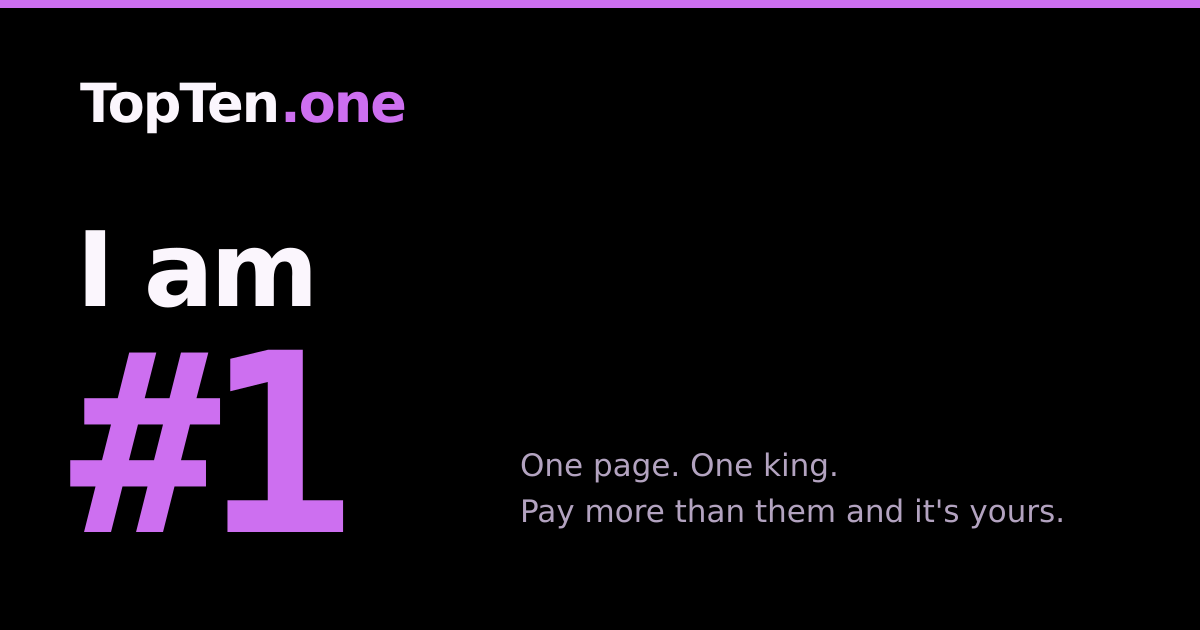
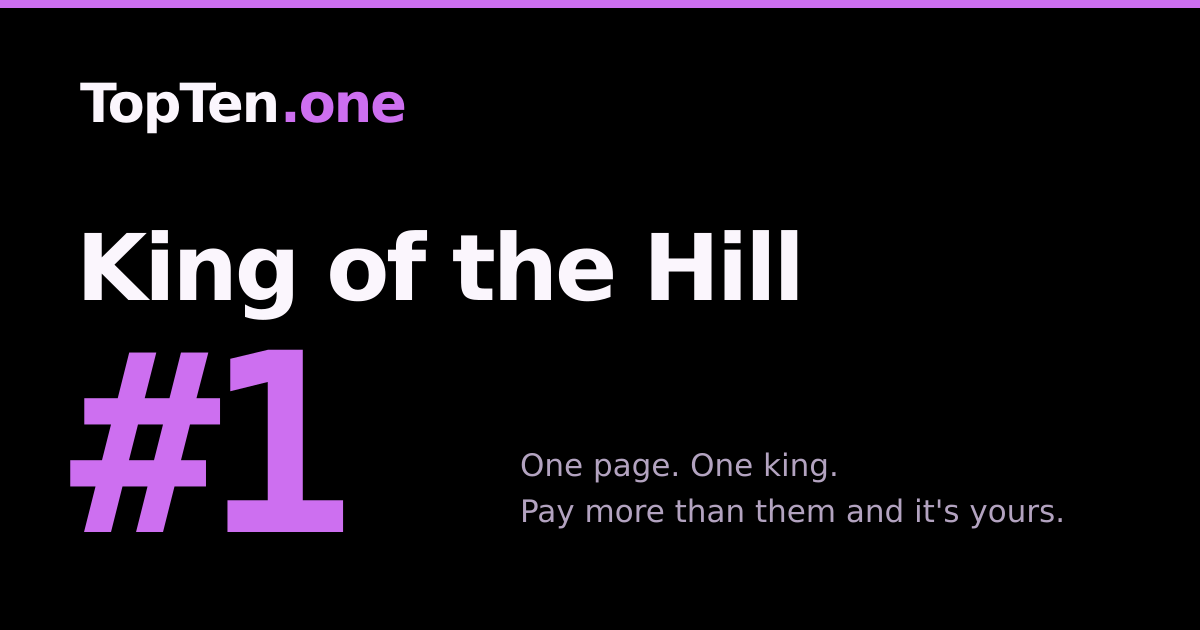
The game has a name: King of the Hill
The domain is the mark; this is the name of the game played on it. It
goes in four places and one place it deliberately does not.

Masthead, beside the wordmark rather than under it, so every page carries
both in one row: topten.one · KING OF THE HILL. Hidden under 360px,
where the row would wrap.

<title>, on all four pages. "Current king: {name} — {amount} — King of
the Hill" once somebody is on the throne, "King of the Hill — topten.one"
while nobody is.

og:site_name, and the share card, where it is said largest. The card had
carried "I am" since the site had a slogan, which outlived the site it
belonged to by one commit.

Not og:title. That slot keeps "Current king: {name} — {amount}" — the one
sentence about this site that changes every time somebody pays — and
spending the front of a preview card on a constant would waste it.

Claude-Session: https://claude.ai/code/session_01468mSVxnefUF94dk4UhLmM

Changed region(s): [[0.0617, 0.3619, 0.6783, 0.5127]]

diff --git a/404.html b/404.html
@@ -4,7 +4,7 @@
 <meta charset="UTF-8">
 <meta name="viewport" content="width=device-width, initial-scale=1, viewport-fit=cover">
 <!-- csp --><meta http-equiv="Content-Security-Policy" content="default-src 'self'; base-uri 'self'; object-src 'none'; frame-src 'none'; form-action 'self'; script-src 'self' https://cdn.jsdelivr.net https://www.googletagmanager.com 'sha256-Ll370Ro9CDDpAN6NVgxuPPrid6b6EQAShYme9C0sL4c='; style-src 'self' 'unsafe-inline'; img-src 'self' data:; font-src 'self'; connect-src 'self' https://iezclmijwrtjibgflfqj.supabase.co wss://iezclmijwrtjibgflfqj.supabase.co https://*.google-analytics.com https://*.analytics.google.com https://www.googletagmanager.com; manifest-src 'self'">
-<title>TopTen.one — one page, one king</title>
+<title>King of the Hill — topten.one</title>
 <meta name="description" content="One page. One king. Whoever has paid the most holds it, and whoever pays more takes it. No accounts, no algorithm, no refunds.">
 <link rel="canonical" href="https://topten.one/">
 
@@ -40,26 +40,27 @@ if (window.top !== window.self) {
 
 <!-- og -->
 <meta property="og:type" content="website">
-<meta property="og:site_name" content="TopTen.one">
-<meta property="og:title" content="TopTen.one — one page, one king">
+<meta property="og:site_name" content="King of the Hill">
+<meta property="og:title" content="King of the Hill — one page, one king">
 <meta property="og:description" content="One page. One king. Pay more than them and it&#39;s yours.">
 <meta property="og:image" content="https://topten.one/og-image.png?v=3">
 <meta property="og:image:width" content="1200">
 <meta property="og:image:height" content="630">
 <meta property="og:url" content="https://topten.one/">
 <meta name="twitter:card" content="summary_large_image">
-<meta name="twitter:title" content="TopTen.one — one page, one king">
+<meta name="twitter:title" content="King of the Hill — one page, one king">
 <meta name="twitter:description" content="One page. One king. Pay more than them and it&#39;s yours.">
 <meta name="twitter:image" content="https://topten.one/og-image.png?v=3">
 <!-- /og -->
 
-<link rel="stylesheet" href="/styles.css?v=40422df2a3">
+<link rel="stylesheet" href="/styles.css?v=0665cf081d">
 </head>
 <body>
 
 <header class="masthead">
   <div class="shell masthead__row">
     <a class="wordmark" href="/">topten<b>.one</b></a>
+    <span class="masthead__name">King of the Hill</span>
   </div>
 </header>
 
@@ -119,8 +120,8 @@ if (window.top !== window.self) {
   </div>
 </footer>
 
-<script src="/config.js?v=40422df2a3"></script>
+<script src="/config.js?v=0665cf081d"></script>
 <script defer src="https://cdn.jsdelivr.net/npm/@supabase/supabase-js@2.58.0/dist/umd/supabase.min.js"></script>
-<script defer src="/app.js?v=40422df2a3"></script>
+<script defer src="/app.js?v=0665cf081d"></script>
 </body>
 </html>

diff --git a/claim/index.html b/claim/index.html
@@ -4,7 +4,7 @@
 <meta charset="UTF-8">
 <meta name="viewport" content="width=device-width, initial-scale=1, viewport-fit=cover">
 <!-- csp --><meta http-equiv="Content-Security-Policy" content="default-src 'self'; base-uri 'self'; object-src 'none'; frame-src 'none'; form-action 'self'; script-src 'self' https://cdn.jsdelivr.net https://www.googletagmanager.com 'sha256-Ll370Ro9CDDpAN6NVgxuPPrid6b6EQAShYme9C0sL4c='; style-src 'self' 'unsafe-inline'; img-src 'self' data:; font-src 'self'; connect-src 'self' https://iezclmijwrtjibgflfqj.supabase.co wss://iezclmijwrtjibgflfqj.supabase.co https://*.google-analytics.com https://*.analytics.google.com https://www.googletagmanager.com; manifest-src 'self'">
-<title>TopTen.one — one page, one king</title>
+<title>King of the Hill — topten.one</title>
 <meta name="description" content="One page. One king. Whoever has paid the most holds it, and whoever pays more takes it. No accounts, no algorithm, no refunds.">
 <link rel="canonical" href="https://topten.one/">
 
@@ -40,26 +40,27 @@ if (window.top !== window.self) {
 
 <!-- og -->
 <meta property="og:type" content="website">
-<meta property="og:site_name" content="TopTen.one">
-<meta property="og:title" content="TopTen.one — one page, one king">
+<meta property="og:site_name" content="King of the Hill">
+<meta property="og:title" content="King of the Hill — one page, one king">
 <meta property="og:description" content="One page. One king. Pay more than them and it&#39;s yours.">
 <meta property="og:image" content="https://topten.one/og-image.png?v=3">
 <meta property="og:image:width" content="1200">
 <meta property="og:image:height" content="630">
 <meta property="og:url" content="https://topten.one/">
 <meta name="twitter:card" content="summary_large_image">
-<meta name="twitter:title" content="TopTen.one — one page, one king">
+<meta name="twitter:title" content="King of the Hill — one page, one king">
 <meta name="twitter:description" content="One page. One king. Pay more than them and it&#39;s yours.">
 <meta name="twitter:image" content="https://topten.one/og-image.png?v=3">
 <!-- /og -->
 
-<link rel="stylesheet" href="/styles.css?v=40422df2a3">
+<link rel="stylesheet" href="/styles.css?v=0665cf081d">
 </head>
 <body>
 
 <header class="masthead">
   <div class="shell masthead__row">
     <a class="wordmark" href="/">topten<b>.one</b></a>
+    <span class="masthead__name">King of the Hill</span>
   </div>
 </header>
 
@@ -119,8 +120,8 @@ if (window.top !== window.self) {
   </div>
 </footer>
 
-<script src="/config.js?v=40422df2a3"></script>
+<script src="/config.js?v=0665cf081d"></script>
 <script defer src="https://cdn.jsdelivr.net/npm/@supabase/supabase-js@2.58.0/dist/umd/supabase.min.js"></script>
-<script defer src="/app.js?v=40422df2a3"></script>
+<script defer src="/app.js?v=0665cf081d"></script>
 </body>
 </html>

diff --git a/index.html b/index.html
@@ -4,7 +4,7 @@
 <meta charset="UTF-8">
 <meta name="viewport" content="width=device-width, initial-scale=1, viewport-fit=cover">
 <!-- csp --><meta http-equiv="Content-Security-Policy" content="default-src 'self'; base-uri 'self'; object-src 'none'; frame-src 'none'; form-action 'self'; script-src 'self' https://cdn.jsdelivr.net https://www.googletagmanager.com 'sha256-Ll370Ro9CDDpAN6NVgxuPPrid6b6EQAShYme9C0sL4c='; style-src 'self' 'unsafe-inline'; img-src 'self' data:; font-src 'self'; connect-src 'self' https://iezclmijwrtjibgflfqj.supabase.co wss://iezclmijwrtjibgflfqj.supabase.co https://*.google-analytics.com https://*.analytics.google.com https://www.googletagmanager.com; manifest-src 'self'">
-<title>TopTen.one — one page, one king</title>
+<title>King of the Hill — topten.one</title>
 <meta name="description" content="One page. One king. Whoever has paid the most holds it, and whoever pays more takes it. No accounts, no algorithm, no refunds.">
 <link rel="canonical" href="https://topten.one/">
 
@@ -40,26 +40,27 @@ if (window.top !== window.self) {
 
 <!-- og -->
 <meta property="og:type" content="website">
-<meta property="og:site_name" content="TopTen.one">
-<meta property="og:title" content="TopTen.one — one page, one king">
+<meta property="og:site_name" content="King of the Hill">
+<meta property="og:title" content="King of the Hill — one page, one king">
 <meta property="og:description" content="One page. One king. Pay more than them and it&#39;s yours.">
 <meta property="og:image" content="https://topten.one/og-image.png?v=3">
 <meta property="og:image:width" content="1200">
 <meta property="og:image:height" content="630">
 <meta property="og:url" content="https://topten.one/">
 <meta name="twitter:card" content="summary_large_image">
-<meta name="twitter:title" content="TopTen.one — one page, one king">
+<meta name="twitter:title" content="King of the Hill — one page, one king">
 <meta name="twitter:description" content="One page. One king. Pay more than them and it&#39;s yours.">
 <meta name="twitter:image" content="https://topten.one/og-image.png?v=3">
 <!-- /og -->
 
-<link rel="stylesheet" href="/styles.css?v=40422df2a3">
+<link rel="stylesheet" href="/styles.css?v=0665cf081d">
 </head>
 <body>
 
 <header class="masthead">
   <div class="shell masthead__row">
     <a class="wordmark" href="/">topten<b>.one</b></a>
+    <span class="masthead__name">King of the Hill</span>
   </div>
 </header>
 
@@ -119,8 +120,8 @@ if (window.top !== window.self) {
   </div>
 </footer>
 
-<script src="/config.js?v=40422df2a3"></script>
+<script src="/config.js?v=0665cf081d"></script>
 <script defer src="https://cdn.jsdelivr.net/npm/@supabase/supabase-js@2.58.0/dist/umd/supabase.min.js"></script>
-<script defer src="/app.js?v=40422df2a3"></script>
+<script defer src="/app.js?v=0665cf081d"></script>
 </body>
 </html>

diff --git a/thanks/index.html b/thanks/index.html
@@ -4,7 +4,7 @@
 <meta charset="UTF-8">
 <meta name="viewport" content="width=device-width, initial-scale=1, viewport-fit=cover">
 <!-- csp --><meta http-equiv="Content-Security-Policy" content="default-src 'self'; base-uri 'self'; object-src 'none'; frame-src 'none'; form-action 'self'; script-src 'self' https://cdn.jsdelivr.net https://www.googletagmanager.com 'sha256-Ll370Ro9CDDpAN6NVgxuPPrid6b6EQAShYme9C0sL4c='; style-src 'self' 'unsafe-inline'; img-src 'self' data:; font-src 'self'; connect-src 'self' https://iezclmijwrtjibgflfqj.supabase.co wss://iezclmijwrtjibgflfqj.supabase.co https://*.google-analytics.com https://*.analytics.google.com https://www.googletagmanager.com; manifest-src 'self'">
-<title>TopTen.one — one page, one king</title>
+<title>King of the Hill — topten.one</title>
 <meta name="description" content="One page. One king. Whoever has paid the most holds it, and whoever pays more takes it. No accounts, no algorithm, no refunds.">
 <link rel="canonical" href="https://topten.one/">
 
@@ -40,26 +40,27 @@ if (window.top !== window.self) {
 
 <!-- og -->
 <meta property="og:type" content="website">
-<meta property="og:site_name" content="TopTen.one">
-<meta property="og:title" content="TopTen.one — one page, one king">
+<meta property="og:site_name" content="King of the Hill">
+<meta property="og:title" content="King of the Hill — one page, one king">
 <meta property="og:description" content="One page. One king. Pay more than them and it&#39;s yours.">
 <meta property="og:image" content="https://topten.one/og-image.png?v=3">
 <meta property="og:image:width" content="1200">
 <meta property="og:image:height" content="630">
 <meta property="og:url" content="https://topten.one/">
 <meta name="twitter:card" content="summary_large_image">
-<meta name="twitter:title" content="TopTen.one — one page, one king">
+<meta name="twitter:title" content="King of the Hill — one page, one king">
 <meta name="twitter:description" content="One page. One king. Pay more than them and it&#39;s yours.">
 <meta name="twitter:image" content="https://topten.one/og-image.png?v=3">
 <!-- /og -->
 
-<link rel="stylesheet" href="/styles.css?v=40422df2a3">
+<link rel="stylesheet" href="/styles.css?v=0665cf081d">
 </head>
 <body>
 
 <header class="masthead">
   <div class="shell masthead__row">
     <a class="wordmark" href="/">topten<b>.one</b></a>
+    <span class="masthead__name">King of the Hill</span>
   </div>
 </header>
 
@@ -119,8 +120,8 @@ if (window.top !== window.self) {
   </div>
 </footer>
 
-<script src="/config.js?v=40422df2a3"></script>
+<script src="/config.js?v=0665cf081d"></script>
 <script defer src="https://cdn.jsdelivr.net/npm/@supabase/supabase-js@2.58.0/dist/umd/supabase.min.js"></script>
-<script defer src="/app.js?v=40422df2a3"></script>
+<script defer src="/app.js?v=0665cf081d"></script>
 </body>
 </html>

diff --git a/about.html b/about.html
@@ -4,25 +4,26 @@
 <meta charset="UTF-8">
 <meta name="viewport" content="width=device-width, initial-scale=1, viewport-fit=cover">
 <!-- csp --><meta http-equiv="Content-Security-Policy" content="default-src 'self'; base-uri 'self'; object-src 'none'; frame-src 'none'; form-action 'self'; script-src 'self' https://cdn.jsdelivr.net https://www.googletagmanager.com; style-src 'self' 'unsafe-inline'; img-src 'self' data:; font-src 'self'; connect-src 'self' https://iezclmijwrtjibgflfqj.supabase.co wss://iezclmijwrtjibgflfqj.supabase.co https://*.google-analytics.com https://*.analytics.google.com https://www.googletagmanager.com; manifest-src 'self'">
-<title>About — TopTen.one</title>
+<title>About — King of the Hill</title>
 <meta name="description" content="One page, one king. Whoever has paid the most holds it, and whoever pays more takes it.">
 <link rel="canonical" href="https://topten.one/about.html">
 <meta name="theme-color" content="#2b1f39">
 <link rel="icon" href="/icons/favicon.svg" type="image/svg+xml">
 <link rel="icon" href="/icons/favicon-32.png" sizes="32x32" type="image/png">
 <meta property="og:type" content="article">
-<meta property="og:title" content="About — TopTen.one">
+<meta property="og:title" content="About — King of the Hill">
 <meta property="og:description" content="One page, one king. Whoever has paid the most holds it, and whoever pays more takes it.">
 <meta property="og:image" content="https://topten.one/og-image.png?v=3">
 <meta property="og:url" content="https://topten.one/about.html">
 <meta name="twitter:card" content="summary_large_image">
-<link rel="stylesheet" href="/styles.css?v=40422df2a3">
+<link rel="stylesheet" href="/styles.css?v=0665cf081d">
 </head>
 <body>
 
 <header class="masthead">
   <div class="shell masthead__row">
     <a class="wordmark" href="/">topten<b>.one</b></a>
+    <span class="masthead__name">King of the Hill</span>
   </div>
 </header>
 

diff --git a/privacy.html b/privacy.html
@@ -4,25 +4,26 @@
 <meta charset="UTF-8">
 <meta name="viewport" content="width=device-width, initial-scale=1, viewport-fit=cover">
 <!-- csp --><meta http-equiv="Content-Security-Policy" content="default-src 'self'; base-uri 'self'; object-src 'none'; frame-src 'none'; form-action 'self'; script-src 'self' https://cdn.jsdelivr.net https://www.googletagmanager.com; style-src 'self' 'unsafe-inline'; img-src 'self' data:; font-src 'self'; connect-src 'self' https://iezclmijwrtjibgflfqj.supabase.co wss://iezclmijwrtjibgflfqj.supabase.co https://*.google-analytics.com https://*.analytics.google.com https://www.googletagmanager.com; manifest-src 'self'">
-<title>Privacy — TopTen.one</title>
+<title>Privacy — King of the Hill</title>
 <meta name="description" content="No accounts, no logins, and as little data as one paid position can run on.">
 <link rel="canonical" href="https://topten.one/privacy.html">
 <meta name="theme-color" content="#2b1f39">
 <link rel="icon" href="/icons/favicon.svg" type="image/svg+xml">
 <link rel="icon" href="/icons/favicon-32.png" sizes="32x32" type="image/png">
 <meta property="og:type" content="article">
-<meta property="og:title" content="Privacy — TopTen.one">
+<meta property="og:title" content="Privacy — King of the Hill">
 <meta property="og:description" content="No accounts, no logins, and as little data as one paid position can run on.">
 <meta property="og:image" content="https://topten.one/og-image.png?v=3">
 <meta property="og:url" content="https://topten.one/privacy.html">
 <meta name="twitter:card" content="summary_large_image">
-<link rel="stylesheet" href="/styles.css?v=40422df2a3">
+<link rel="stylesheet" href="/styles.css?v=0665cf081d">
 </head>
 <body>
 
 <header class="masthead">
   <div class="shell masthead__row">
     <a class="wordmark" href="/">topten<b>.one</b></a>
+    <span class="masthead__name">King of the Hill</span>
   </div>
 </header>
 

diff --git a/terms.html b/terms.html
@@ -4,25 +4,26 @@
 <meta charset="UTF-8">
 <meta name="viewport" content="width=device-width, initial-scale=1, viewport-fit=cover">
 <!-- csp --><meta http-equiv="Content-Security-Policy" content="default-src 'self'; base-uri 'self'; object-src 'none'; frame-src 'none'; form-action 'self'; script-src 'self' https://cdn.jsdelivr.net https://www.googletagmanager.com; style-src 'self' 'unsafe-inline'; img-src 'self' data:; font-src 'self'; connect-src 'self' https://iezclmijwrtjibgflfqj.supabase.co wss://iezclmijwrtjibgflfqj.supabase.co https://*.google-analytics.com https://*.analytics.google.com https://www.googletagmanager.com; manifest-src 'self'">
-<title>Terms — TopTen.one</title>
+<title>Terms — King of the Hill</title>
 <meta name="description" content="One position on one page. Payments are final and there are no refunds.">
 <link rel="canonical" href="https://topten.one/terms.html">
 <meta name="theme-color" content="#2b1f39">
 <link rel="icon" href="/icons/favicon.svg" type="image/svg+xml">
 <link rel="icon" href="/icons/favicon-32.png" sizes="32x32" type="image/png">
 <meta property="og:type" content="article">
-<meta property="og:title" content="Terms — TopTen.one">
+<meta property="og:title" content="Terms — King of the Hill">
 <meta property="og:description" content="One position on one page. Payments are final and there are no refunds.">
 <meta property="og:image" content="https://topten.one/og-image.png?v=3">
 <meta property="og:url" content="https://topten.one/terms.html">
 <meta name="twitter:card" content="summary_large_image">
-<link rel="stylesheet" href="/styles.css?v=40422df2a3">
+<link rel="stylesheet" href="/styles.css?v=0665cf081d">
 </head>
 <body>
 
 <header class="masthead">
   <div class="shell masthead__row">
     <a class="wordmark" href="/">topten<b>.one</b></a>
+    <span class="masthead__name">King of the Hill</span>
   </div>
 </header>
 

diff --git a/styles.css b/styles.css
@@ -97,6 +97,7 @@ button {
   display: flex;
   align-items: center;
   justify-content: center;
+  gap: 9px;
   min-height: 46px;
 }
 
@@ -108,6 +109,21 @@ button {
   letter-spacing: -.02em;
 }
 .wordmark b { color: var(--accent); font-weight: 800; }
+
+/* The domain is the mark; this is the name of the game played on it. Beside
+   the wordmark rather than under it, so every page carries both in one row
+   whatever else is on the page. */
+.masthead__name {
+  color: var(--dim);
+  font-size: 11.5px;
+  font-weight: 700;
+  text-transform: uppercase;
+  letter-spacing: .14em;
+  white-space: nowrap;
+}
+.masthead__name::before { content: "·"; margin-right: 9px; letter-spacing: 0; }
+
+@media (max-width: 359px) { .masthead__name { display: none; } }
 
 .tagline {
   text-align: center;

diff --git a/app.js b/app.js
@@ -294,8 +294,8 @@
     drawFormer();
     document.title = state.king
       ? 'Current king: ' + nameOf(state.king) + ' — ' + money(state.king.amount_cents, state.king.currency)
-        + ' — TopTen.one'
-      : 'The throne is empty — TopTen.one';
+        + ' — King of the Hill'
+      : 'The throne is empty — King of the Hill';
   }
 
   /* ------------------------------------------------------------- the claim */

diff --git a/README.md b/README.md
@@ -1,6 +1,13 @@
-# TopTen.one
+# TopTen.one — King of the Hill
 
 **One page. One king. Pay more than them and it's yours.**
+
+The domain is the mark; *King of the Hill* is the name of the game played on
+it. It is the site name in the masthead, in `<title>`, in `og:site_name` and on
+the share card. `og:title` is deliberately **not** it: that slot carries
+`Current king: {name} — {amount}`, the one sentence about this site that changes
+every time somebody pays, and spending the front of a preview card on a
+constant would waste it.
 
 There is a single position on a single page. Whoever has paid the most for it
 holds it — their name, their message and their link *are* the page — and the
